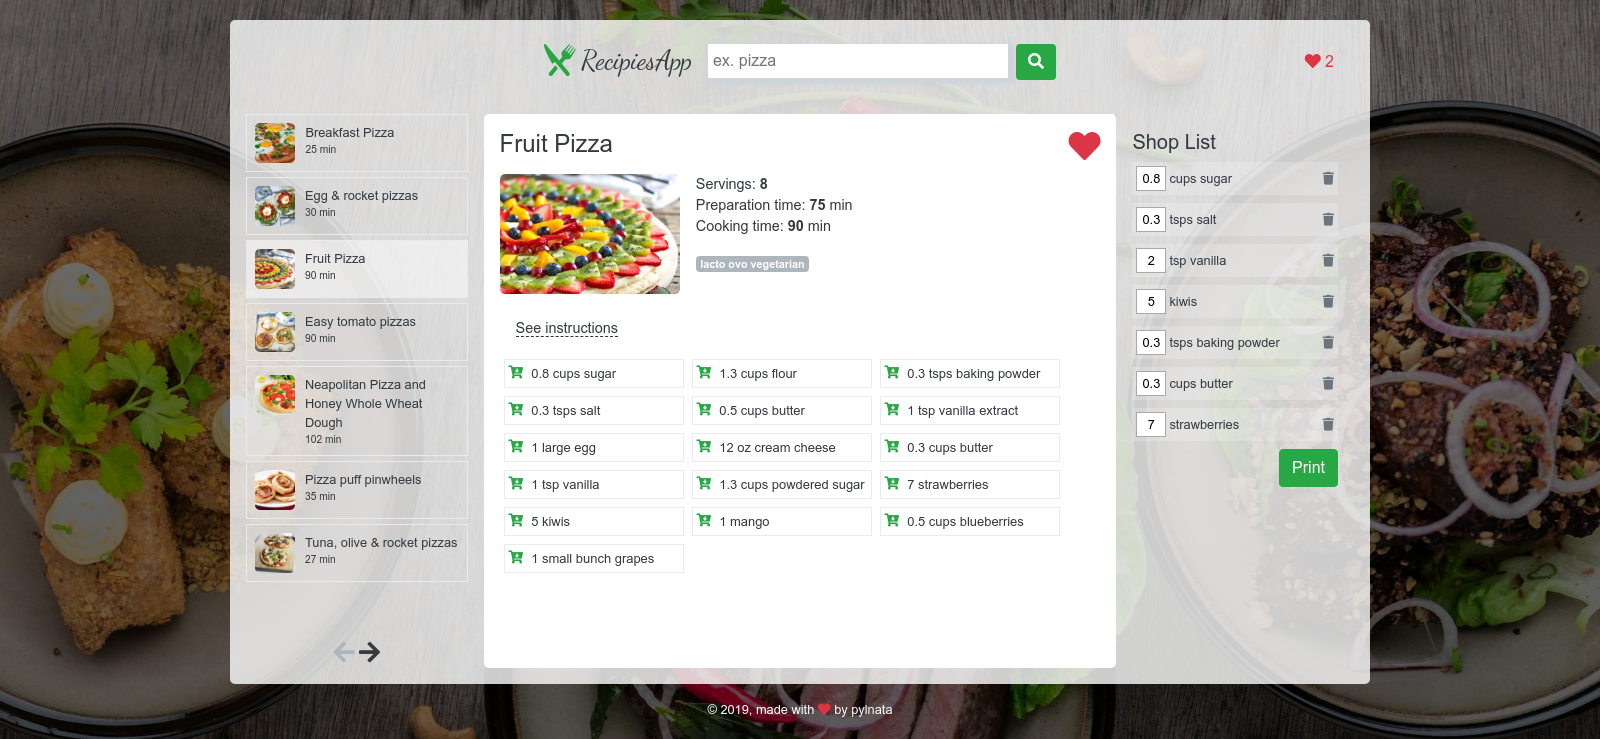
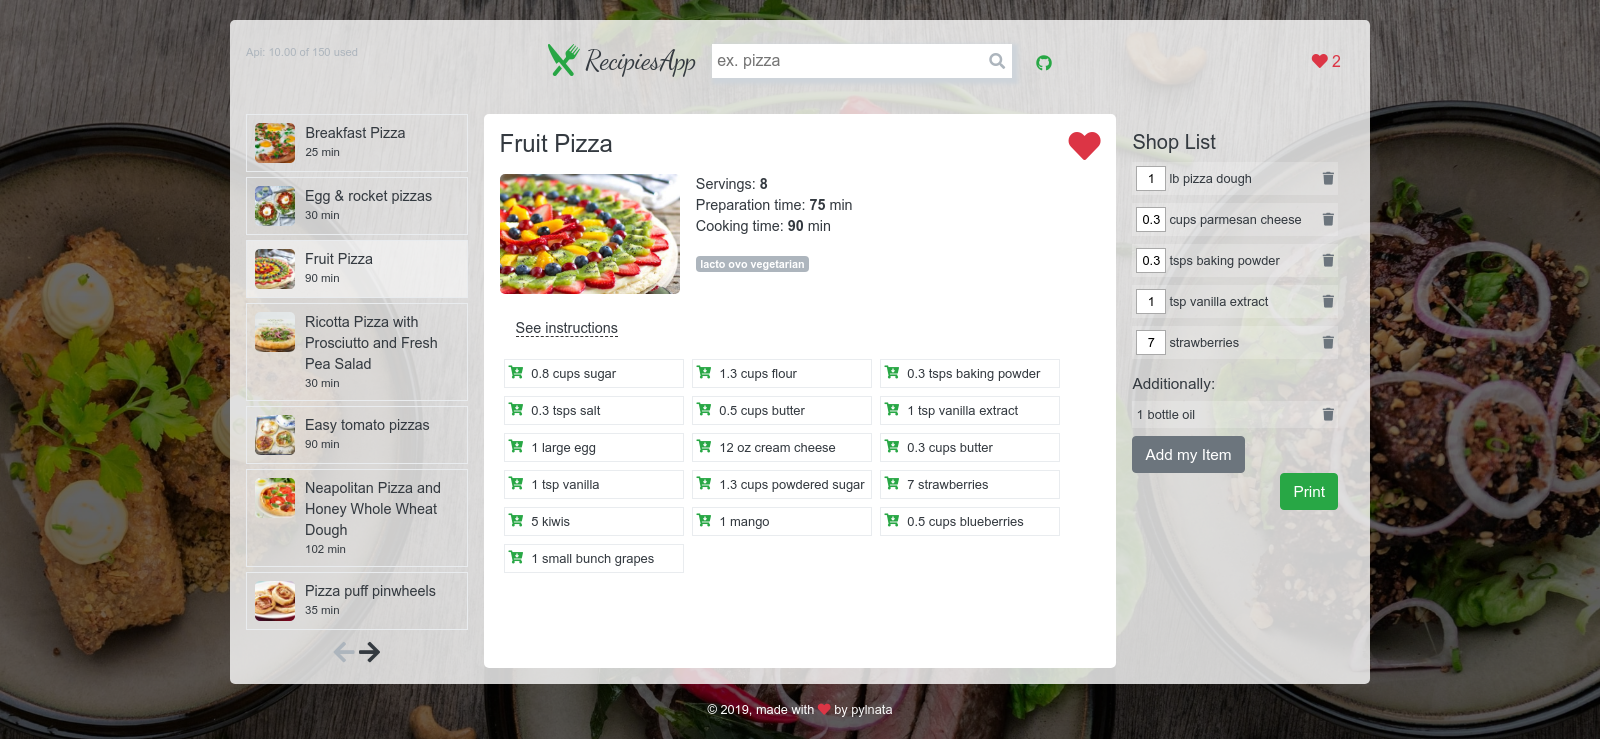
readme

diff --git a/README.md b/README.md
@@ -2,6 +2,8 @@
 
 # Recipies-App
 
+Lives here: https://recipies-react-app.herokuapp.com/
+
 This simple project was developed by me in order to polish React Hooks usage, including creation of  custom hooks. Also I use redux-observable, that I found really helpful here. 
 
 In this project I use only functional components and React Hooks (almost all existed). 
@@ -18,7 +20,8 @@ Application allowes:
 * to search for recipies by keyword (using spoonacular API);
 * to view recipe details;
 * save recipes to Favourite List;
-* create editable shop list based on ingredients from recipies.
+* create editable shop list by choosing ingfredients from recipies;
+* add own items to shop list;
 
 P.S. Due to restrictions of usage spoonacular API it is possible to have only 150 calls to their service per day, so in case if limit is reached fake data is used.
 
